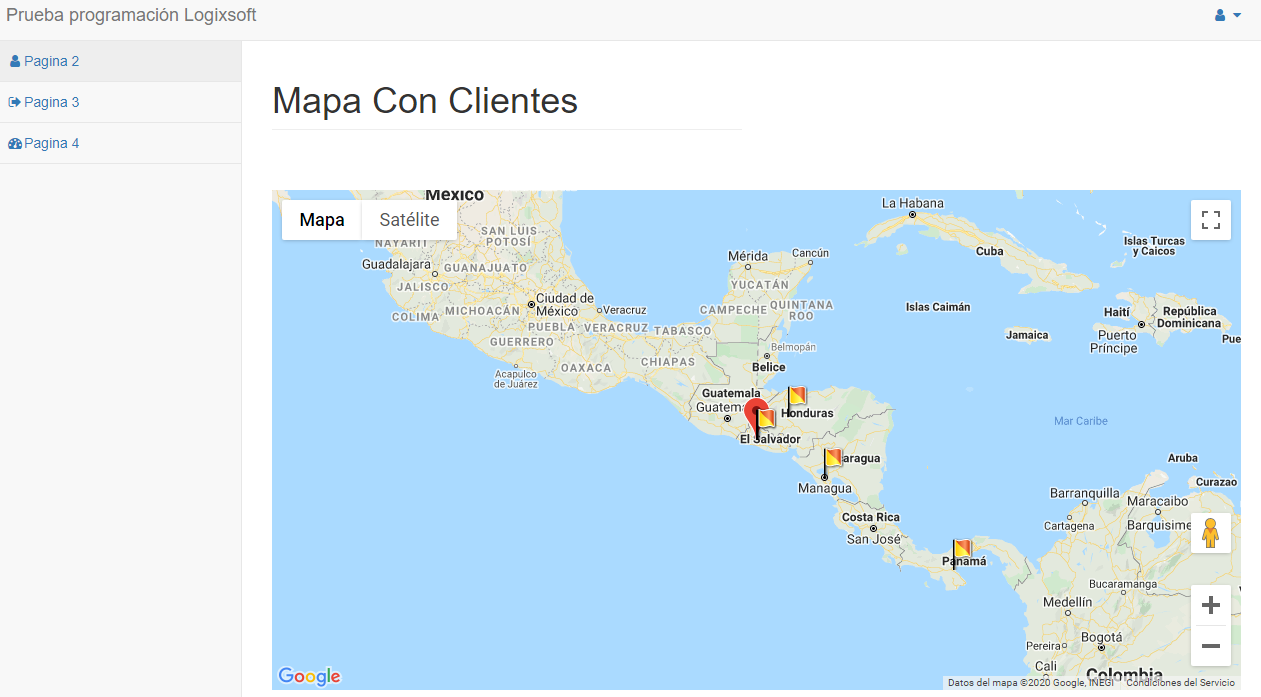
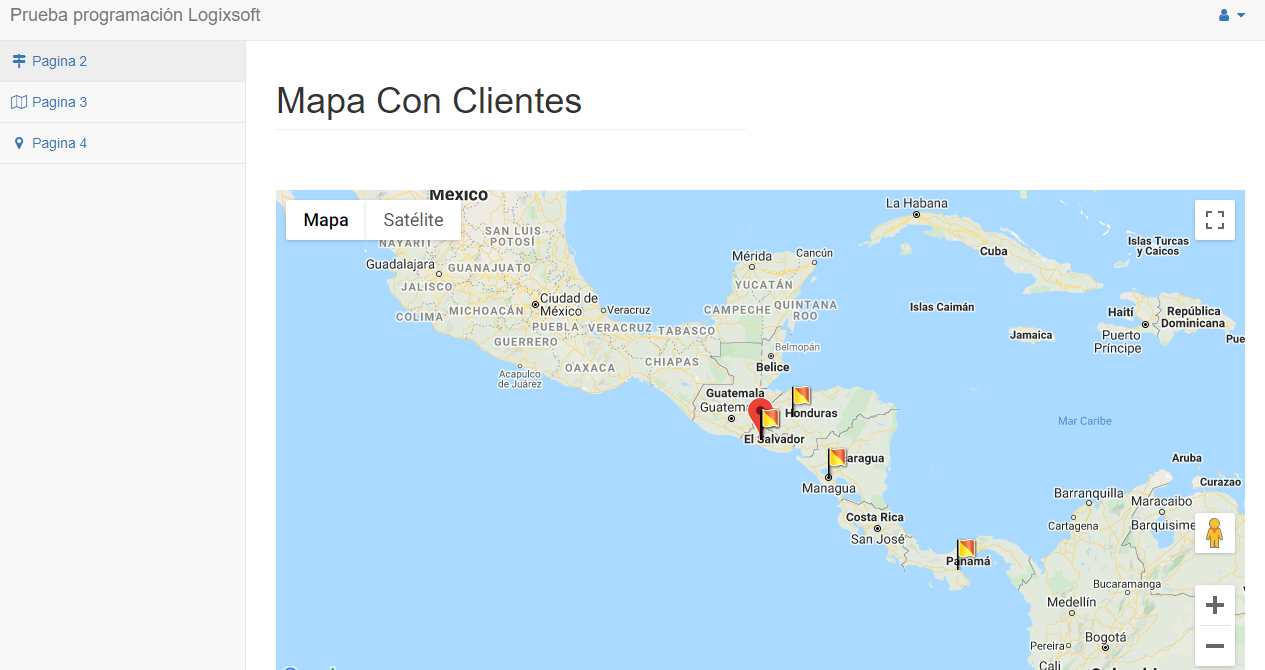
Editando Estilo

diff --git a/assets/css/sb-admin-2.css b/assets/css/sb-admin-2.css
@@ -118,7 +118,7 @@ body {
 }
 
 .login-panel {
-  margin-top: 25%;
+  margin-top: 10%;
 }
 
 .btn-circle {
@@ -205,3 +205,25 @@ body {
 label.error{
   color: red;
 }
+#Salir2
+   {
+	   display: none;
+   }
+@media (min-width: 321px) and (max-width: 767px)
+ {	 
+	.login-panel
+   {
+     margin-top: 3%; 
+   } 
+   #Salir
+   {
+	   display: none;
+   }
+   #Salir2
+   {
+	   display: block;
+   }
+ }
+  
+
+

diff --git a/includes/header.php b/includes/header.php
@@ -2,34 +2,21 @@
 <html lang="en">
     <head>
         <meta charset="utf-8">
-        <meta http-equiv="X-UA-Compatible" content="IE=edge">
-        
+        <meta http-equiv="X-UA-Compatible" content="IE=edge">        
 		<meta name="viewport" content="initial-scale=1.0, user-scalable=no">
-        <meta name="description" content="Test">
+        <meta name="description" content="Prueba programación Logixsoft">
         <meta name="author" content="Carlos Dario Flores">
-        <title>appletenhtml.blogspot.com</title>
-        <!-- Bootstrap Core CSS -->
-        <link  rel="stylesheet" href="assets/css/bootstrap.min.css"/>
-        <!-- MetisMenu CSS -->
-        <link href="assets/js/metisMenu/metisMenu.min.css" rel="stylesheet">
-        <!-- Custom CSS -->
-        <link href="assets/css/sb-admin-2.css" rel="stylesheet">
-        <!-- Custom Fonts -->
-        <link href="assets/fonts/font-awesome/css/font-awesome.min.css" rel="stylesheet" type="text/css">
-        <!-- HTML5 Shim and Respond.js IE8 support of HTML5 elements and media queries -->
-        <!-- WARNING: Respond.js doesn't work if you view the page via file:// -->
-        <!--[if lt IE 9]>
-            <script src="https://oss.maxcdn.com/libs/html5shiv/3.7.0/html5shiv.js"></script>
-            <script src="https://oss.maxcdn.com/libs/respond.js/1.4.2/respond.min.js"></script>
-        <![endif]-->
+        <title>appletenhtml.blogspot.com</title>        
+        <link  rel="stylesheet" href="assets/css/bootstrap.min.css"/>        
+        <link href="assets/js/metisMenu/metisMenu.min.css" rel="stylesheet">        
+        <link href="assets/css/sb-admin-2.css" rel="stylesheet">        
+        <link href="assets/fonts/font-awesome/css/font-awesome.min.css" rel="stylesheet" type="text/css">        
         <script src="assets/js/jquery.min.js" type="text/javascript"></script>		
 		<link href='https://appletenhtml.blogspot.com/favicon.ico' rel='icon' type='image/x-icon'/>
     </head>
     <body>
-        <div id="wrapper">
-		
-            <!-- Navigation -->
-            <?php if (isset($_SESSION['user_logged_in']) && $_SESSION['user_logged_in'] == true): ?>
+        <div id="wrapper">		            
+            <?php if (isset($_SESSION['_usuario']) && $_SESSION['_usuario'] == true): ?>
                 <nav class="navbar navbar-default navbar-static-top" role="navigation" style="margin-bottom: 0">
                     <div class="navbar-header">
                         <button type="button" class="navbar-toggle" data-toggle="collapse" data-target=".navbar-collapse">
@@ -39,36 +26,24 @@
                             <span class="icon-bar"></span>
                         </button>
                         <a class="navbar-brand" href="">Prueba programación Logixsoft</a>
-                    </div>
-                    <!-- /.navbar-header -->
-
-                    <ul class="nav navbar-top-links navbar-right">
-                        <!-- /.dropdown -->
-
-                        <!-- /.dropdown -->
+                    </div>                    
+                    <ul class="nav navbar-top-links navbar-right" id="Salir">                        
                         <li class="dropdown">
                             <a class="dropdown-toggle" data-toggle="dropdown" href="#"><i class="fa fa-user fa-fw"></i> <i class="fa fa-caret-down"></i></a>
                             <ul class="dropdown-menu dropdown-user">                                
                                 <li><a href="logout.php"> Salir</a></li>
-                            </ul>
-                            <!-- /.dropdown-user -->
-                        </li>
-                        <!-- /.dropdown -->
-                    </ul>
-                    <!-- /.navbar-top-links -->
+                            </ul>                            
+                        </li>                        
+                    </ul>                    
                     <div class="navbar-default sidebar" role="navigation">
                         <div class="sidebar-nav navbar-collapse">
                             <ul class="nav" id="side-menu">								
-                               <li><a href="MapaConCLientes.php"><i class="fa fa-user fa-fw"></i>Pagina 2</a></li>
-							   <li><a href="TablaConNombres.php"><i class="fa fa-sign-out fa-fw"></i>Pagina 3</a></li>	<li><a href="MapaDeCalor.php"><i class="fa fa-dashboard fa-fw"></i>Pagina 4</a></li>
-							   
-                                
-                                
+                               <li><a href="MapaConCLientes.php"><i class="fa fa-map-signs fa-fw"></i> Pagina 2</a></li>
+							   <li><a href="TablaConNombres.php"><i class="fa fa-map-o fa-fw"></i> Pagina 3</a></li>
+							   <li><a href="MapaDeCalor.php"><i class="fa fa-map-marker fa-fw"></i> Pagina 4</a></li>
+							   <li id="Salir2"><a href="logout.php"><i class="fa fa-user fa-fw"></i> Salir</a></li>
                             </ul>
-                        </div>
-                        <!-- /.sidebar-collapse -->
-                    </div>
-                    <!-- /.navbar-static-side -->
+                        </div>                        
+                    </div>                    
                 </nav>
-            <?php endif; ?>
-            <!-- The End of the Header -->
+            <?php endif; ?>            

diff --git a/login.php b/login.php
@@ -2,7 +2,7 @@
 session_start();
 require_once 'config/config.php';
 $token = bin2hex(openssl_random_pseudo_bytes(16));
-if (isset($_SESSION['user_logged_in']) && $_SESSION['user_logged_in'] === TRUE)
+if (isset($_SESSION['_usuario']) && $_SESSION['_usuario'] === TRUE)
 {
 	header('Location: index.php');
 }
@@ -21,12 +21,12 @@ if (isset($_SESSION['user_logged_in']) && $_SESSION['user_logged_in'] === TRUE)
 					<label class="control-label">Contraseña</label>
 					<input type="password" name="password" class="form-control" required="required">
 				</div>				
-				<?php if (isset($_SESSION['login_failure'])): ?>
+				<?php if (isset($_SESSION['error_login'])): ?>
 				<div class="alert alert-danger alert-dismissable fade in">
 					<a href="#" class="close" data-dismiss="alert" aria-label="close">&times;</a>
 					<?php
-					echo $_SESSION['login_failure'];
-					unset($_SESSION['login_failure']);
+					echo $_SESSION['error_login'];
+					unset($_SESSION['error_login']);
 					?>
 				</div>
 				<?php endif; ?>

diff --git a/authenticate.php b/authenticate.php
@@ -1,21 +1,17 @@
 <?php
-//require_once 'config/config.php';
 session_start();
 if ($_SERVER['REQUEST_METHOD'] === 'POST')
 {
-	$username = filter_input(INPUT_POST, 'username');
-	$password = filter_input(INPUT_POST, 'password');	
-	
+	$username = strtolower(filter_input(INPUT_POST, 'username'));
+	$password = filter_input(INPUT_POST, 'password');		
 	if ($username=="prueba" and $password=="12345")
-    {		
-			$user_id = $row['id'];		
-			$_SESSION['user_logged_in'] = TRUE;			
-            $_SESSION['user_id'] = $username;			
+    {					
+			$_SESSION['_usuario'] = TRUE;			            
 			header('Location: MapaConCLientes.php');		
 	}
     else
     {
-		$_SESSION['login_failure'] = 'Usuario o contraseña invalido';
+		$_SESSION['error_login'] = 'Usuario o contraseña invalido';
 		header('Location: login.php');
 		exit;
 	}

diff --git a/config/config.php b/config/config.php
@@ -2,26 +2,4 @@
 error_reporting(E_ALL);
 ini_set('display_errors', 'On');
 define('BASE_PATH', dirname(dirname(__FILE__)));
-define('APP_FOLDER', 'simpleadmin');
-define('CURRENT_PAGE', basename($_SERVER['REQUEST_URI']));
-
-//require_once BASE_PATH . '/lib/MysqliDb/MysqliDb.php';
-//require_once BASE_PATH . '/helpers/helpers.php';
-
-/*
-|--------------------------------------------------------------------------
-| DATABASE CONFIGURATION
-|--------------------------------------------------------------------------
- */
-/*
-define('DB_HOST', "localhost");
-define('DB_USER', "root");
-define('DB_PASSWORD', "");
-define('DB_NAME', "corephpadmin");
-
-/**
- * Get instance of DB object
- * /
-function getDbInstance() {
-	return new MysqliDb(DB_HOST, DB_USER, DB_PASSWORD, DB_NAME);
-}*/
+?>

diff --git a/MapaDeCalor.php b/MapaDeCalor.php
@@ -22,8 +22,7 @@ require_once BASE_PATH . '/includes/auth_validate.php';
 	  {location: new google.maps.LatLng(13.696674, -89.197927), weight: 3},
 	  {location: new google.maps.LatLng(14.692511, -87.86136), weight: 3},
 	  {location: new google.maps.LatLng(12.022747, -86.252007), weight: 3},
-	  {location: new google.maps.LatLng(8.103289, -80.596013), weight: 3}  
-  
+	  {location: new google.maps.LatLng(8.103289, -80.596013), weight: 3}    
 	];
 var xcenter = new google.maps.LatLng(13.705043, -89.2023);
 map = new google.maps.Map(document.getElementById('map'), {

diff --git a/index.php b/index.php
@@ -1,13 +1,11 @@
 <?php
 session_start();
-//require_once './config/config.php';
 require_once 'includes/auth_validate.php';
 include_once('includes/header.php');
 header('Location: MapaConCLientes.php');
 ?>
-
 <small>
 	Powered by <a href="https://github.com/carlosdarioio/PruebaProgramaci-nLogixsoft">Carlos Dario Flores</a>
-	</small>
+</small>
 
 <?php include_once('includes/footer.php'); ?>

diff --git a/includes/auth_validate.php b/includes/auth_validate.php
@@ -1,10 +1,6 @@
 <?php
-
-//If User is logged in the session['user_logged_in'] will be set to true
-
-//if user is Not Logged in, redirect to login.php page.
-if (!isset($_SESSION['user_logged_in'])) {
+if (!isset($_SESSION['_usuario']))
+{
 	header('Location:login.php');
 }
-
  ?>

diff --git a/includes/footer.php b/includes/footer.php
@@ -1,6 +1,4 @@
 </div>
-
-
   <script src="assets/js/bootstrap.min.js"></script>
   <script src="assets/js/metisMenu/metisMenu.min.js"></script>  
   <script src="assets/js/sb-admin-2.js"></script>
